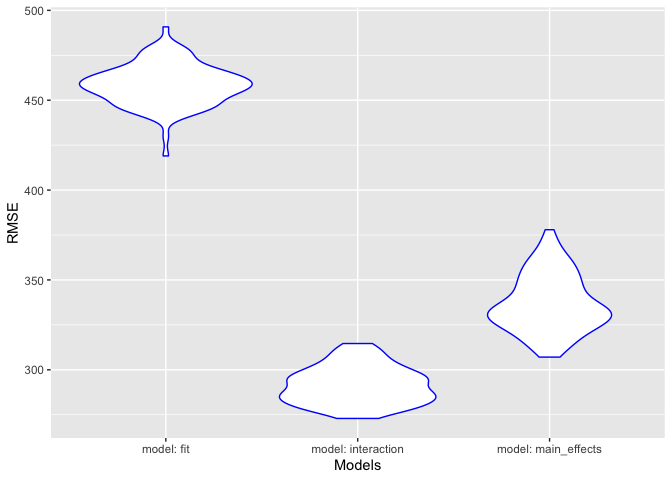
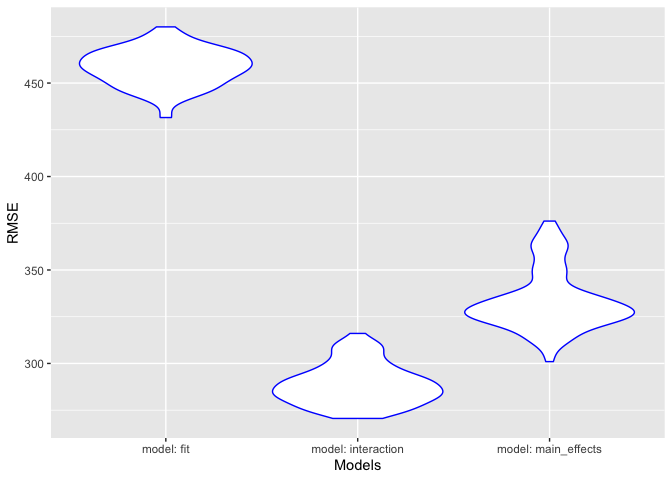
fixed the log to log10 as the homework asked for log not ln

diff --git a/p8105_hw6_ab4797.md b/p8105_hw6_ab4797.md
@@ -222,7 +222,7 @@ select(term, estimate) %>%
 names_from = term, values_from = estimate) %>% 
   unnest() %>% 
   janitor::clean_names() %>% 
-mutate(log_intercept = log(intercept*tmin)) %>% 
+  mutate(log_intercept = log10(intercept*tmin)) %>% 
     ggplot(aes(x = log_intercept)) + geom_density() + labs(x = "Log(Beta0 * Beta1)", y = "Density")
 ```
 
@@ -286,7 +286,7 @@ select(term, estimate) %>%
 names_from = term, values_from = estimate) %>% 
   unnest() %>% 
   janitor::clean_names() %>% 
-mutate(log_intercept = log(intercept*tmin)) %>% 
+mutate(log_intercept = log10(intercept*tmin)) %>% 
 summarize(
 lower_CI = quantile(log_intercept, c(.025)),
 upper_CI = quantile(log_intercept, c(.975))) %>% 
@@ -295,6 +295,6 @@ upper_CI = quantile(log_intercept, c(.975))) %>%
 
 | lower\_CI | upper\_CI |
 | --------: | --------: |
-|  1.967353 |  2.058287 |
+| 0.8544105 | 0.8939026 |
 
-The 95% CI for the log of beta null hat to beta one hat is 1.97 to 2.06.
+The 95% CI for the log of beta null hat to beta one hat is 0.85 to 0.89.
